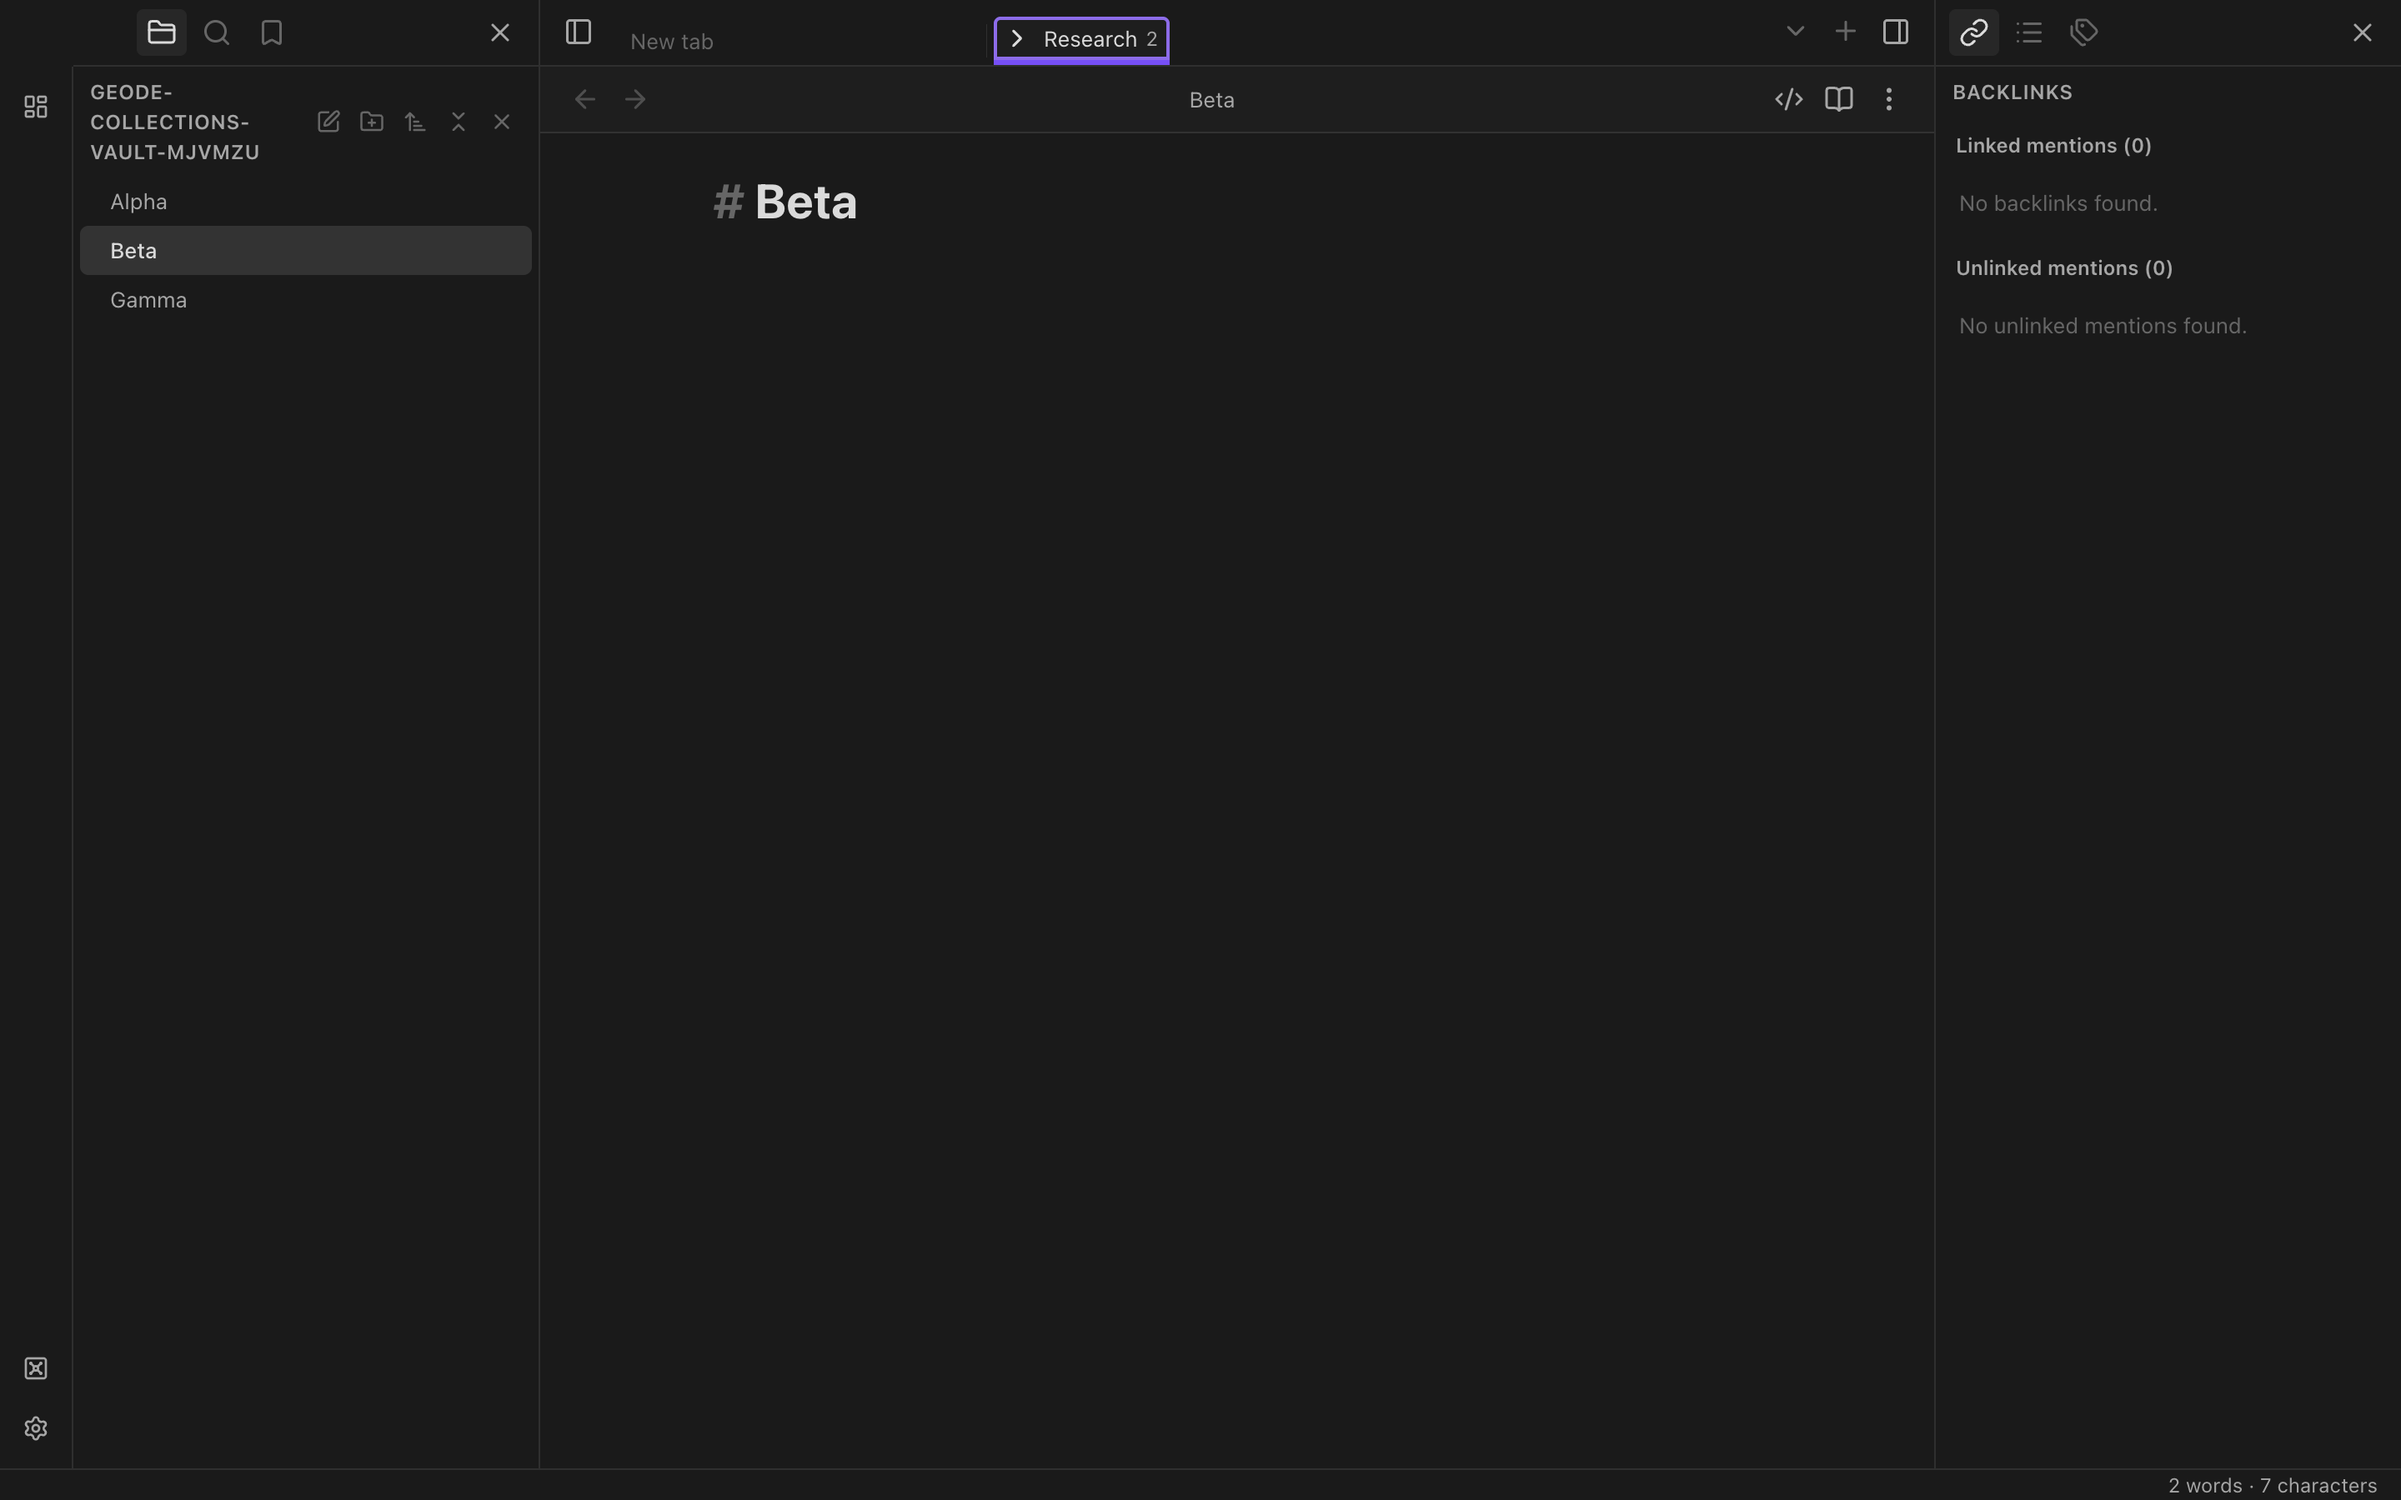
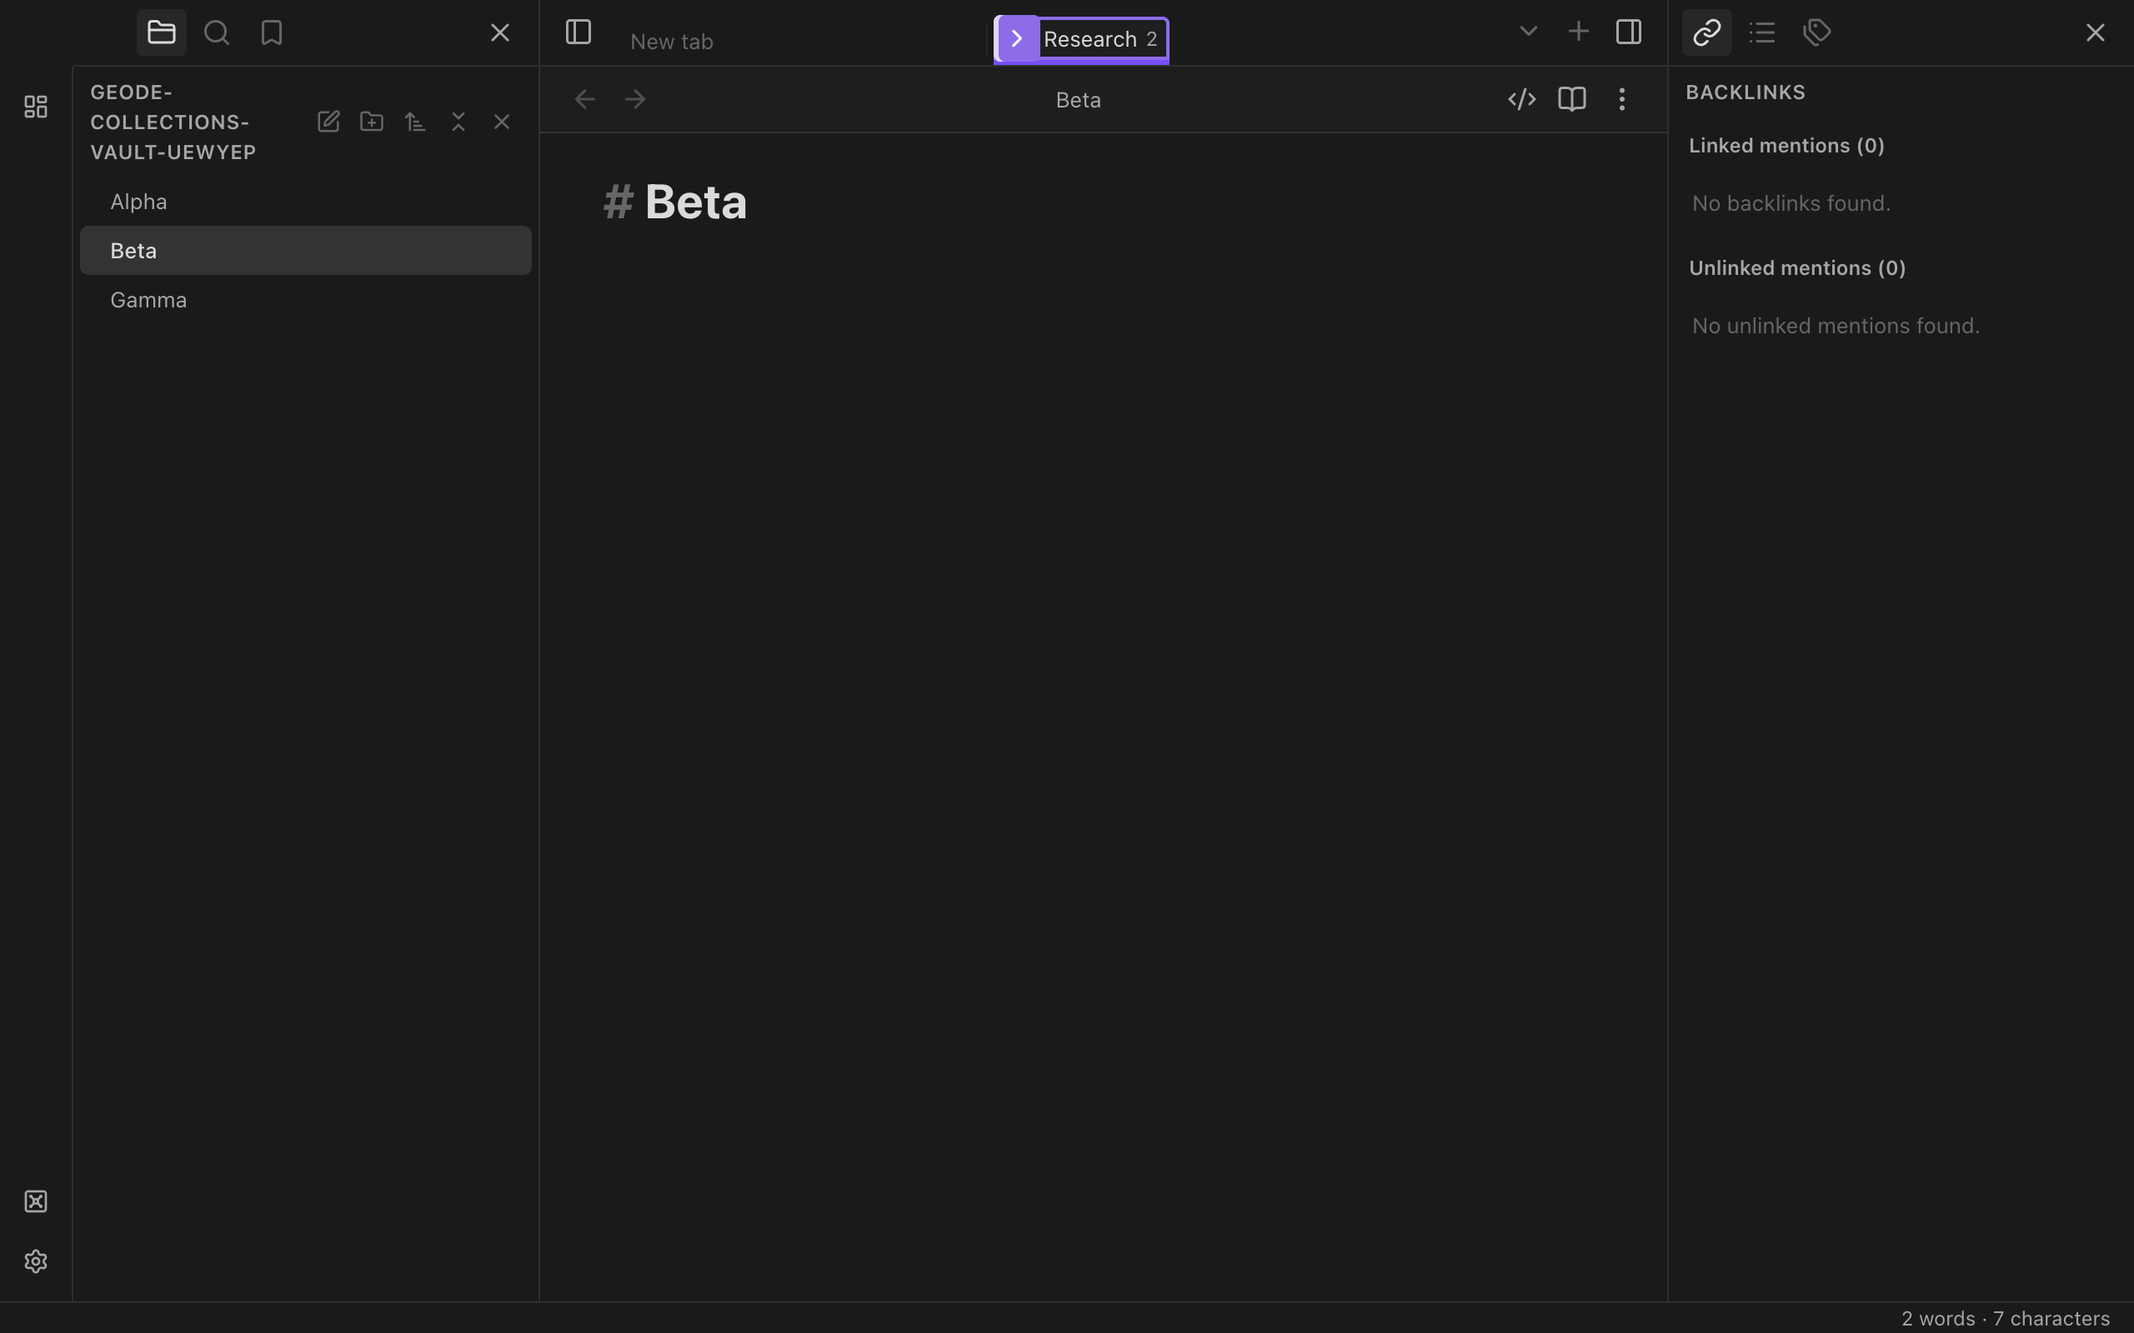
fix: refine tab collection focus treatment

diff --git a/tests/e2e/tab-collections.spec.ts b/tests/e2e/tab-collections.spec.ts
@@ -86,14 +86,56 @@ test("creates, edits, collapses, activates, and restores a named tab collection"
     await expect(label).toHaveClass(/is-active/);
     await expect(label.locator(".tab-collection-surface")).toHaveAttribute("aria-label", /collapsed, 2 tabs, active: Beta/);
     await expect(window.locator(".workspace-tab-container")).toContainText("Beta");
-    const interactionScreenshot = testInfo.outputPath("tab-collections-collapsed-active.png");
-    await window.screenshot({ path: interactionScreenshot, animations: "disabled" });
-    await testInfo.attach("tab-collections-collapsed-active", { path: interactionScreenshot, contentType: "image/png" });
-    await browserWindow.evaluate((nativeWindow: any) => nativeWindow.setSize(1440, 900));
-    await expect.poll(() => window.evaluate(() => window.innerWidth)).toBeGreaterThan(1300);
-    const largeInteractionScreenshot = testInfo.outputPath("tab-collections-collapsed-active-large.png");
-    await window.screenshot({ path: largeInteractionScreenshot, animations: "disabled" });
-    await testInfo.attach("tab-collections-collapsed-active-large", { path: largeInteractionScreenshot, contentType: "image/png" });
+    for (const size of [
+      { name: "small", width: 900, height: 700 },
+      { name: "standard", width: 1280, height: 800 },
+    ]) {
+      await browserWindow.evaluate((nativeWindow: any, nextSize) => nativeWindow.setSize(nextSize.width, nextSize.height), size);
+      await expect.poll(() => window.evaluate(() => window.innerWidth)).toBeGreaterThan(size.width - 100);
+      for (const scheme of ["light", "dark"] as const) {
+        await window.evaluate((value) => {
+          const a = (window as any).app; a.settings.theme = value; a.applySettings();
+        }, scheme);
+        await label.locator(".tab-collection-surface").focus();
+        await window.keyboard.press("Shift+Tab");
+        await expect(disclosure).toBeFocused();
+        await expect(label).toHaveClass(/is-active/);
+        await expect.poll(() => disclosure.evaluate((element) => getComputedStyle(element).backgroundColor))
+          .not.toBe("rgba(0, 0, 0, 0)");
+        const treatment = await disclosure.evaluate((element) => {
+          const style = getComputedStyle(element);
+          const labelStyle = getComputedStyle(element.closest<HTMLElement>(".tab-collection-label")!);
+          const channels = (value: string) => value.match(/[\d.]+/g)?.slice(0, 3).map(Number) ?? [0, 0, 0];
+          const luminance = (value: string) => {
+            const [r, g, b] = channels(value).map((channel) => {
+              const normalized = channel / 255;
+              return normalized <= 0.04045 ? normalized / 12.92 : ((normalized + 0.055) / 1.055) ** 2.4;
+            });
+            return 0.2126 * r + 0.7152 * g + 0.0722 * b;
+          };
+          const foreground = luminance(style.color);
+          const background = luminance(style.backgroundColor);
+          return {
+            focusVisible: element.matches(":focus-visible"),
+            outlineWidth: style.outlineWidth,
+            outlineStyle: style.outlineStyle,
+            backgroundColor: style.backgroundColor,
+            boxShadow: style.boxShadow,
+            labelBoxShadow: labelStyle.boxShadow,
+            contrast: (Math.max(foreground, background) + 0.05) / (Math.min(foreground, background) + 0.05),
+          };
+        });
+        expect(treatment.focusVisible).toBe(true);
+        expect(treatment.outlineStyle).toBe("none");
+        expect(treatment.backgroundColor).not.toBe("rgba(0, 0, 0, 0)");
+        expect(treatment.boxShadow).toContain("inset");
+        expect(treatment.labelBoxShadow).not.toBe("none");
+        expect(treatment.contrast).toBeGreaterThanOrEqual(3);
+        const screenshot = testInfo.outputPath(`tab-collections-active-focus-${size.name}-${scheme}.png`);
+        await window.screenshot({ path: screenshot, animations: "disabled" });
+        await testInfo.attach(`tab-collections-active-focus-${size.name}-${scheme}`, { path: screenshot, contentType: "image/png" });
+      }
+    }
     await window.evaluate(() => {
       const group = (window as any).app.workspace.activeGroup;
       const alphaLeaf = group.leaves.find((leaf: any) => leaf.view?.getFile?.()?.path === "Alpha.md");
@@ -105,7 +147,11 @@ test("creates, edits, collapses, activates, and restores a named tab collection"
       const file = path.join(vaultDir, ".geode", "workspace.json");
       if (!fs.existsSync(file)) return null;
       const state = JSON.parse(fs.readFileSync(file, "utf8"));
-      return state.version === 3 && state.center.root.collections?.[0]?.collapsed === true ? state : null;
+      return state.version === 3
+        && state.center.root.collections?.[0]?.collapsed === true
+        && state.center.root.active === 0
+        ? state
+        : null;
     }, { timeout: 5000 }).not.toBeNull();
     await app.close();
 

diff --git a/styles/app.css b/styles/app.css
@@ -965,11 +965,16 @@ body.is-macos:not(.is-native-fullscreen) .workspace-ribbon.mod-left {
   color: var(--text-muted);
   font-size: var(--font-ui-smaller);
 }
-.tab-collection-disclosure:focus-visible,
 .tab-collection-surface:focus-visible,
 .tab-collection-rename:focus-visible {
   outline: 2px solid var(--interactive-accent);
   outline-offset: -2px;
+}
+.tab-collection-disclosure:focus-visible {
+  outline: none;
+  color: var(--text-on-accent) !important;
+  background-color: var(--interactive-accent) !important;
+  box-shadow: inset 3px 0 0 color-mix(in srgb, var(--text-on-accent) 72%, transparent) !important;
 }
 .tab-collection-rename {
   min-width: 80px;
